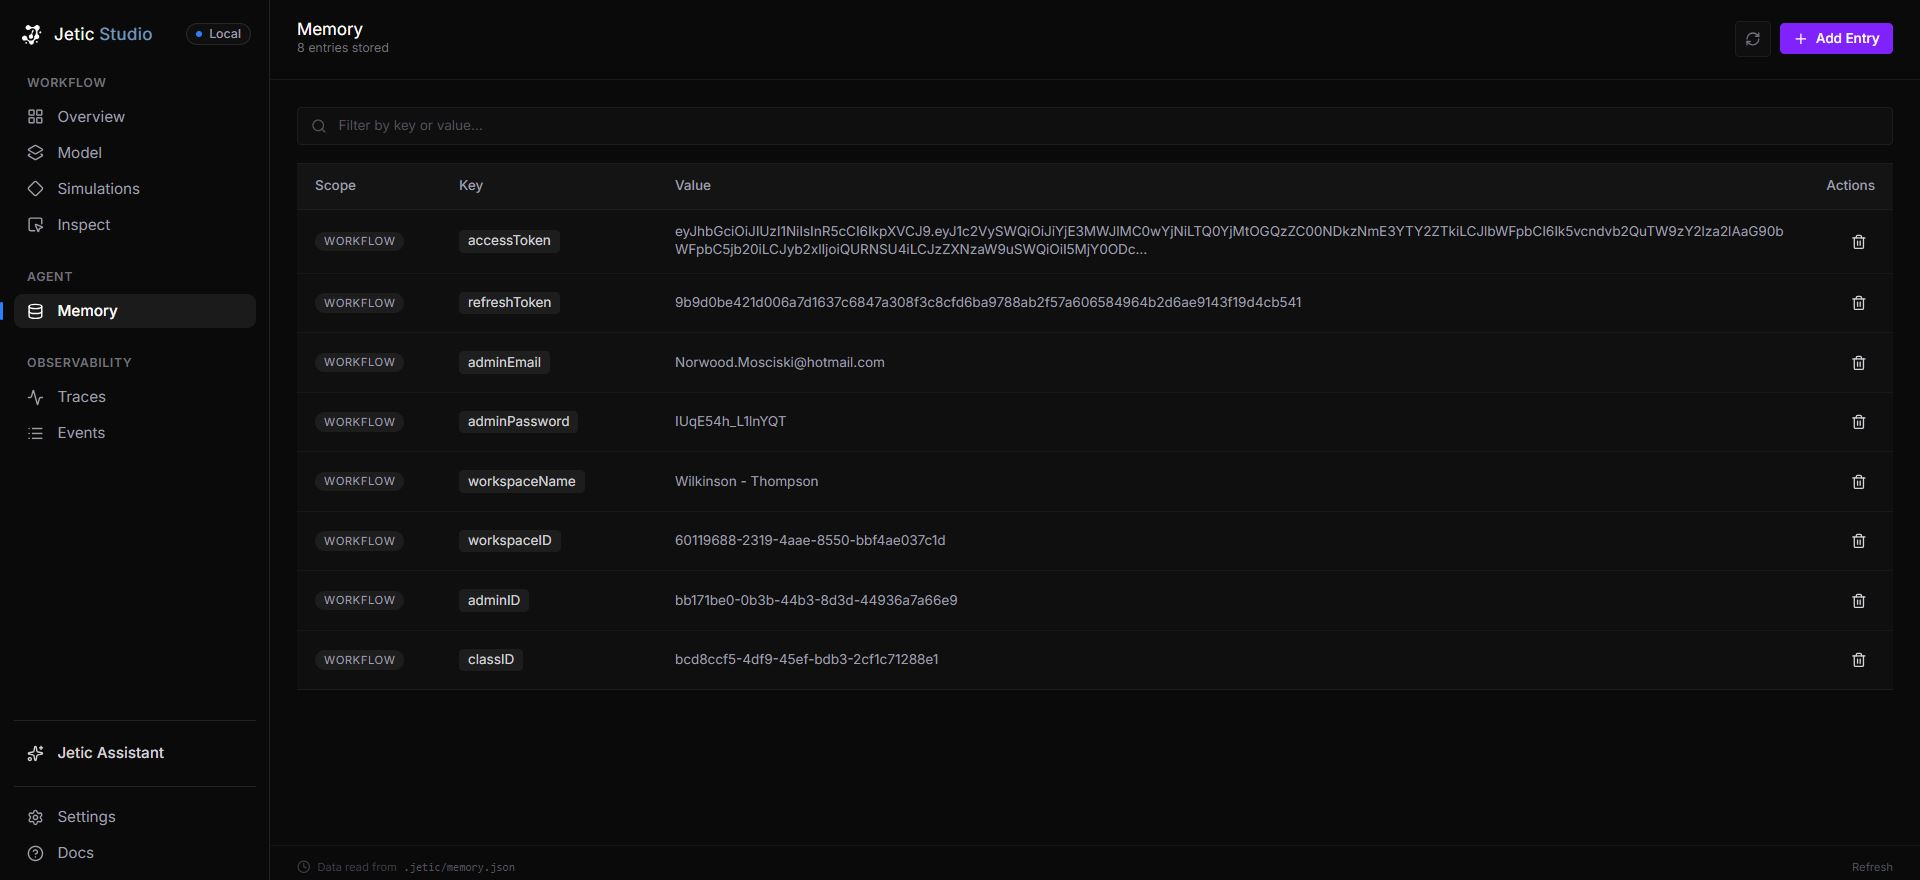
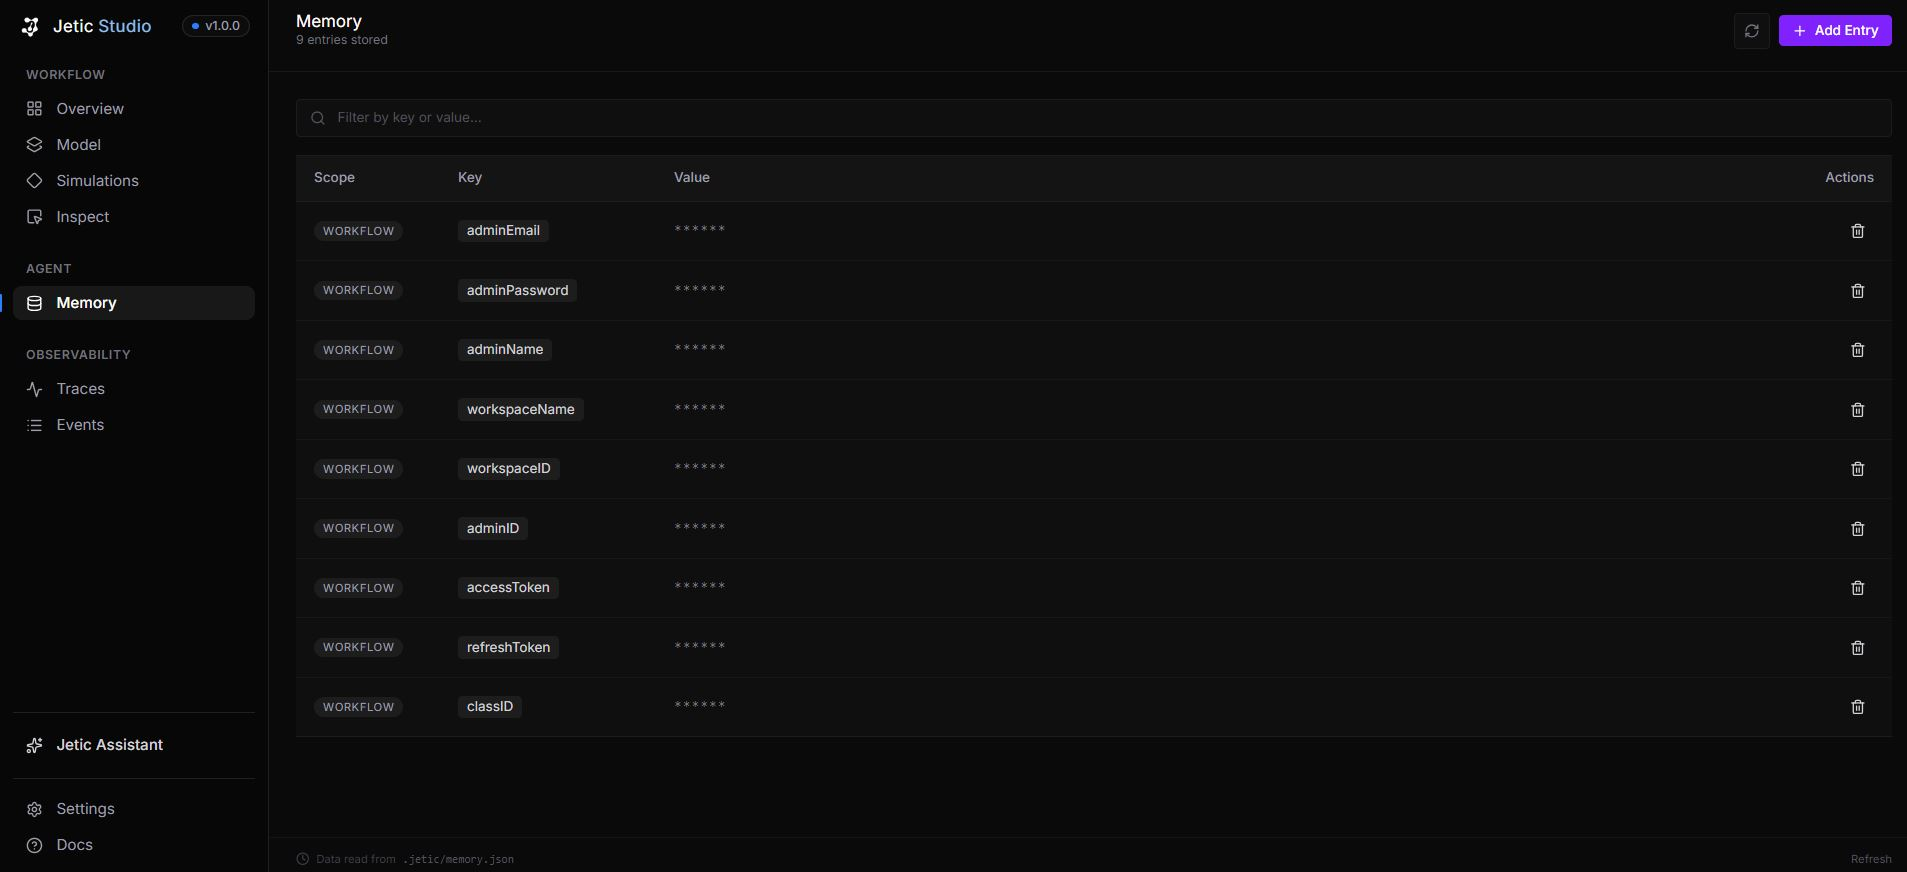
Beta v1.0.0 stills unstable

diff --git a/apps/dashboard/src/pages/Agent/Memory.tsx b/apps/dashboard/src/pages/Agent/Memory.tsx
@@ -64,6 +64,30 @@ function shortKey(fullKey: string): string {
   return idx !== -1 ? fullKey.slice(idx + 1) : fullKey;
 }
 
+function MaskedValue({ value }: { value: string }) {
+  const [isHovered, setIsHovered] = useState(false);
+  const displayVal = value.length > 200 ? value.slice(0, 200) + '…' : value;
+
+  return (
+    <div
+      onMouseEnter={() => setIsHovered(true)}
+      onMouseLeave={() => setIsHovered(false)}
+      className="cursor-pointer min-w-[200px]"
+    >
+      {isHovered ? (
+        <p className="text-zinc-300 text-wrap break-all transition-colors">
+          {displayVal}
+        </p>
+      ) : (
+        <p className="text-zinc-500 font-mono tracking-widest select-none">
+          ******
+        </p>
+      )}
+    </div>
+  );
+}
+
+
 // ─── ScopeGroup ──────────────────────────────────────────────────────────────
 
 
@@ -393,9 +417,7 @@ export function Memory() {
                         </span>
                       </td>
                       <td className="px-4 py-3">
-                        <p className="text-zinc-400 text-wrap break-all min-w-[200px]">
-                          {val.length > 200 ? val.slice(0, 200) + '…' : val}
-                        </p>
+                        <MaskedValue value={val} />
                       </td>
                       <td className="px-4 py-3 text-right">
                         <button

diff --git a/apps/dashboard/src/pages/Workspace/Overview.tsx b/apps/dashboard/src/pages/Workspace/Overview.tsx
@@ -6,7 +6,7 @@ import {
   ChevronRight,
   Clock,
   Database,
-  GitBranch,
+
   Globe,
   Layers,
   Network,
@@ -16,7 +16,7 @@ import {
   Shield,
   Sparkles,
   Terminal,
-  TrendingUp,
+
   Workflow,
   Zap,
 } from 'lucide-react';

diff --git a/README.md b/README.md
@@ -1,5 +1,5 @@
 <!-- PROJECT LOGO OR ANIMATED BANNER GOES HERE -->
-<!-- 💡 TIP: Replace this placeholder image with a high-quality animated GIF or beautiful banner showcasing the Jetic CLI in action. A tool like 'vhs' or 'terminalizer' works great for CLI animations. -->
+<!-- 💡 TIP: Replace this placeholder image with a high-quality animated GIF or banner showcasing Jetic CLI and Studio Dashboard in action. -->
 <p align="center">
   <img src="https://avatars.githubusercontent.com/u/275651463?s=200&v=4" alt="Jetic Banner">
 </p>
@@ -12,10 +12,12 @@
 
 <p align="center">
   <a href="#features">Features</a> •
-  <a href="#how-it-works">How it Works</a> •
+  <a href="#architecture">Architecture</a> •
   <a href="#getting-started">Getting Started</a> •
-  <a href="#documentation">Documentation</a> •
-  <a href="#contributing">Contributing</a>
+  <a href="#cli-commands">CLI Commands</a> •
+  <a href="#local-dashboard">Local Dashboard</a> •
+  <a href="#how-it-works">How it Works</a> •
+  <a href="#documentation">Documentation</a>
 </p>
 
 <p align="center">
@@ -35,18 +37,21 @@ Traditional API testing requires developers to manually write hundreds of tests,
 
 **Jetic** is a programmable developer platform that **automatically understands, models, and tests an application's API behavior directly from its source code.** 
 
-It connects to your project, statically analyzes the backend, discovers the API structure and behavioral constraints (e.g., `quantity > 0` or `role === "admin"`), builds a live behavioral graph, and uses AI to automatically generate and execute end-to-end tests.
+It connects to your project, statically analyzes the backend, discovers the API structure and behavioral constraints (e.g., `quantity > 0` or `role === "admin"`), builds a live behavioral graph, and uses AI to automatically generate and execute end-to-end tests through both a **blazing fast CLI** and a **rich local web dashboard (Jetic Studio)**.
 
 <!-- 💡 TIP: ARCHITECTURE DIAGRAM PLACEHOLDER -->
-<!-- Add a Mermaid diagram or a beautiful graphic here showing the Scanner -> API Discovery -> Behavioral Model -> Test Planner flow. Visuals significantly boost repository engagement. -->
+<!-- Add a Mermaid diagram or a graphic here showing Scanner -> API Discovery -> Behavioral Model -> Test Planner & Dashboard flow. -->
 
-## ✨ Key Features (v0.1.0 MVP)
+---
+
+## ✨ Key Features
 
 - 🔍 **Zero-Execution Source Code Discovery**: Deeply inspects TypeScript/Node.js/Express projects without running them using AST parsing (`ts-morph`).
 - 🧩 **Deep Nested Router Resolution**: Seamlessly connects prefix strings to actual route handlers (e.g., maps `app.use('/api/orders', ordersRouter)` to `router.get('/:id')`).
 - 🧠 **Intelligent Constraint Discovery**: Extracts business logic conditions (e.g., password minimum lengths, role requirements) directly from `if`-statements in the handler code.
 - 🔗 **AI-Powered Workflow Inference**: Automatically determines dependencies between operations and injects state. It knows that `POST /orders` requires the JWT obtained from `POST /login`.
 - 📊 **Declarative Behavioral Modeling**: Outputs a versioned `.jetic/model.json` schema mapping HTTP methods, paths, and source provenance (exact file/line numbers).
+- 🖥 **Jetic Studio Dashboard**: A state-of-the-art dark-mode local IDE for visual API discovery, source inspection, live endpoint interactive simulation, workflow execution, and memory management.
 - 💻 **Blazing Fast CLI**: A lightweight command-line interface bringing full API intelligence directly to your terminal.
 
 ---
@@ -56,6 +61,7 @@ It connects to your project, statically analyzes the backend, discovers the API 
 Jetic is organized as a modern `pnpm` monorepo using TypeScript:
 
 - 📂 **`apps/cli`**: The main `jetic` command-line executable.
+- 📂 **`apps/dashboard`**: **Jetic Studio** — sleek React 19 + Vite + TailwindCSS local developer web interface.
 - 📦 **`packages/core`**: Core configuration, error handling, and filesystem abstractions.
 - 📦 **`packages/model`**: The strongly-typed `BehavioralModel` schema definitions.
 - 📦 **`packages/scanner`**: The static analysis engine (AST parsing, path resolution, and normalization).
@@ -93,55 +99,147 @@ cd examples/express-shop
 export OPENROUTER_API_KEY="your_api_key_here"
 
 # Initialize Jetic configuration
-node ../../apps/cli/dist/index.js init
+jetic init
 
 # Scan the project and build the Behavioral Model
-node ../../apps/cli/dist/index.js scan
+jetic scan
 ```
 
-### 3. CLI Commands
+---
+
+## 💻 CLI Commands
 
 <!-- 💡 TIP: CLI DEMO GIF PLACEHOLDER -->
-<!-- Add an animated GIF here showing the CLI 'scan' and 'simulate' commands in action. A moving terminal gets the most attention! -->
+<!-- Add an animated GIF here showing the CLI 'scan' and 'simulate' commands in action. -->
 
-**Inspect the Discovered API:**
+### Inspect Discovered APIs
 ```bash
 # View all discovered endpoints
-node ../../apps/cli/dist/index.js inspect
+jetic inspect
 
 # Inspect a specific endpoint in detail (shows exact source provenance)
-node ../../apps/cli/dist/index.js inspect endpoint GET /api/orders/:id
+jetic inspect endpoint GET /api/orders/:id
 ```
 
-**Simulate and Test (Ensure the target server is running):**
+### Simulate and Test Endpoints
 ```bash
 # Simulate all endpoints against the live server
-node ../../apps/cli/dist/index.js simulate endpoint --all
+jetic simulate endpoint --all
 
 # Simulate a specific endpoint with verbose output
-node ../../apps/cli/dist/index.js simulate endpoint GET /api/orders/:id --verbose
+jetic simulate endpoint GET /api/orders/:id --verbose
 ```
 
-### 4. AI-Powered Workflow Simulation 🧠
-
-Jetic can automatically deduce and execute entire API workflows (e.g., *Register → Login → Create Exam → Enroll → Get Results*) and pass tokens intelligently via memory injection.
+### AI-Powered Workflow Simulation 🧠
+Jetic automatically deduces and executes entire API workflows (e.g., *Register → Login → Create Order → Get Receipt*) and passes tokens intelligently via memory injection.
 
 ```bash
 # Generate and execute an AI-driven workflow
-node ../../apps/cli/dist/index.js simulate workflow
+jetic simulate workflow
 
 # Test a custom natural-language goal
-node ../../apps/cli/dist/index.js simulate workflow --goal "Admin creates exam, student enrolls, completes, gets results"
+jetic simulate workflow --goal "Admin creates exam, student enrolls, completes, gets results"
 
 # Generate a workflow.json graph without executing it
-node ../../apps/cli/dist/index.js simulate workflow --generate-only
+jetic simulate workflow --generate-only
 
 # Execute an existing generated workflow
-node ../../apps/cli/dist/index.js simulate workflow --workflow .jetic/workflow.json
+jetic simulate workflow --workflow .jetic/workflow.json
 
 # Clear state/memory before running
-node ../../apps/cli/dist/index.js simulate workflow --clear-memory
+jetic simulate workflow --clear-memory
 ```
+
+---
+
+## 🖥 Local Dashboard (Jetic Studio)
+
+Jetic includes a premium, local developer dashboard (**Jetic Studio**) designed for visual API exploration, interactive testing, source provenance viewing, AI workflow debugging, and runtime state inspection.
+
+### Running the Dashboard
+
+```bash
+# Start the dashboard locally from the monorepo
+pnpm --filter @jetic/dashboard dev
+
+# Or launch it directly via CLI (when linked)
+jetic dev
+```
+
+---
+
+### 📌 Dashboard Pages & Features Overview
+
+#### 1. 📊 Workspace: Overview (`/overview`)
+The central command dashboard summarizing project metrics, endpoint breakdown, security posture, and runtime memory.
+- **Key Features**: High-level stat cards (Endpoints count, Workflows, Memory Keys, Secured routes %), HTTP method distribution graph, recent endpoint shortcut list, recent AI workflows list, and active memory key preview.
+
+<!-- 🖼 SCREENSHOT PLACEHOLDER: WORKSPACE OVERVIEW -->
+<!-- Place screenshot of the Workspace Overview page here -->
+![Jetic Studio - Workspace Overview](/screenshots/jetic_overview.JPG)
+
+---
+
+#### 2. 🧩 Workspace: Model (`/model`)
+Comprehensive visual explorer for your application's Behavioral Model (`.jetic/model.json`).
+- **Key Features**: Instant search & HTTP method filtering (GET, POST, PUT, DELETE), detailed request/response schema inspect cards, security scheme badges (JWT, Bearer), middleware list, and quick **Inspect** trigger buttons.
+
+<!-- 🖼 SCREENSHOT PLACEHOLDER: WORKSPACE MODEL -->
+<!-- Place screenshot of the Behavioral Model page here -->
+![Jetic Studio - Behavioral Model](/screenshots/jetic_model_list.JPG)
+
+---
+
+#### 3. 🔬 Workspace: Inspect (`/inspect`)
+Deep-dive inspection page for any single API endpoint.
+- **Key Features**:
+  - **Source Code Viewer**: Live AST preview showing the exact backend source file and handler line number (e.g., `routes/orders.ts:42`).
+  - **Related Files**: Automatically resolves imported helper files and data models tied to the endpoint.
+  - **Request & Response Schemas**: Field definitions, data types, format requirements, and HTTP response codes.
+  - **Interactive Endpoint Simulator**: Run live requests using real or auto-generated fake data with authorization token headers.
+
+<!-- 🖼 SCREENSHOT PLACEHOLDER: WORKSPACE INSPECT -->
+<!-- Place screenshot of the Endpoint Inspect page here -->
+![Jetic Studio - Endpoint Inspect](/screenshots/jetic_endpoint_inspect.JPG)
+
+---
+
+#### 4. 💎 Workspace: Simulations (`/simulations`)
+Visual AI workflow builder and step-by-step simulation runner.
+- **Key Features**: Run multi-step user journeys generated by AI or custom natural language goals, inspect request/response payloads at each step, track step execution status, and visualize state passing between steps.
+
+<!-- 🖼 SCREENSHOT PLACEHOLDER: WORKSPACE SIMULATIONS -->
+<!-- Place screenshot of the Simulations page here -->
+![Jetic Studio - AI Workflow Simulations](/screenshots/jetic_smulations_expandable.JPG)
+
+---
+
+#### 5. 🗄 Agent: Memory (`/memory`)
+Runtime state and key-value store inspector (`.jetic/memory.json`).
+- **Key Features**: View stored authorization tokens (JWTs, session IDs), global variables, dynamic runtime keys, and manage session memory across simulation runs.
+
+<!-- 🖼 SCREENSHOT PLACEHOLDER: AGENT MEMORY -->
+<!-- Place screenshot of the Memory page here -->
+![Jetic Studio - Memory Inspector](/screenshots/jetic_memory.JPG)
+---
+
+#### 8. 📈 Observability: Traces & Events (`/traces`, `/events`) (coming soon)
+Real-time API request monitoring and event log viewer.
+- **Key Features**: Live timeline traces, request duration latencies, status code distribution, and execution event stream logs.
+
+<!-- 🖼 SCREENSHOT PLACEHOLDER: OBSERVABILITY TRACES & EVENTS -->
+<!-- Place screenshot of Observability pages here -->
+![Jetic Studio - Observability Traces](https://via.placeholder.com/1200x675.png?text=Placeholder:+Observability+Traces+Page+Screenshot)
+
+---
+
+#### ⚡ Jetic AI Assistant (Copilot Drawer) (comming soon)
+Interactive AI assistant accessible anywhere in Jetic Studio via the sidebar or `Sparkles` trigger.
+- **Key Features**: Ask questions about your API structure, generate simulation goals, diagnose failing endpoints, and get instant recommendations directly within your workflow.
+
+<!-- 🖼 SCREENSHOT PLACEHOLDER: AI ASSISTANT -->
+<!-- Place screenshot of the Jetic AI Assistant drawer here -->
+![Jetic Studio - AI Assistant Drawer](https://via.placeholder.com/1200x675.png?text=Placeholder:+AI+Assistant+Drawer+Screenshot)
 
 ---
 
@@ -152,22 +250,22 @@ node ../../apps/cli/dist/index.js simulate workflow --clear-memory
 3. **Constraint & Logic Discovery**: The scanner extracts business logic (`password.length < 8` → minimum length: 8) preventing the need for arbitrary fuzzing.
 4. **Behavioral Model Construction**: Data is normalized into `.jetic/model.json`.
 5. **AI Workflow Generation**: The AI analyzes the `model.json` to create a `workflow.json` test graph, storing authorization tokens (like JWTs) in `.jetic/memory.json` to inject into subsequent requests automatically.
+6. **Studio Synchronization**: Jetic Studio reads `.jetic/model.json` and `.jetic/memory.json` in real time to present live insights and interactive testing tools.
 
 ---
 
 ## 🗺 Roadmap & Vision
 
+- [x] **Web Dashboard (Jetic Studio)**: An API observability IDE providing deep insights into API health, constraints, source provenance, and workflow execution.
 - [ ] **`jetic test`**: Synthesize smart, targeted requests checking boundary values and auth errors based on discovered constraints.
 - [ ] **State-Aware Testing**: Understand that `refund()` should work on `captured` payments, but fail on `refunded` ones.
 - [ ] **Custom Plugin Ecosystem**: SDK for adding support for Security testing, GraphQL, Webhooks, or custom AI Agents.
-- [ ] **Web Dashboard**: An API observability IDE that provides deep insights into API health, constraints, and dependencies rather than just generic pass/fail logs.
 
 ---
 
 ## 📚 Documentation
 
-<!-- 💡 TIP: Add links to your detailed documentation pages here once they are created -->
-For deep dives into the architecture, workflow simulations, and plugin system, please check our [Documentation Folder](./docs) (Coming Soon).
+For deep dives into the architecture, workflow simulations, and plugin system, please check our [Documentation Folder](./docs).
 
 ---
 
